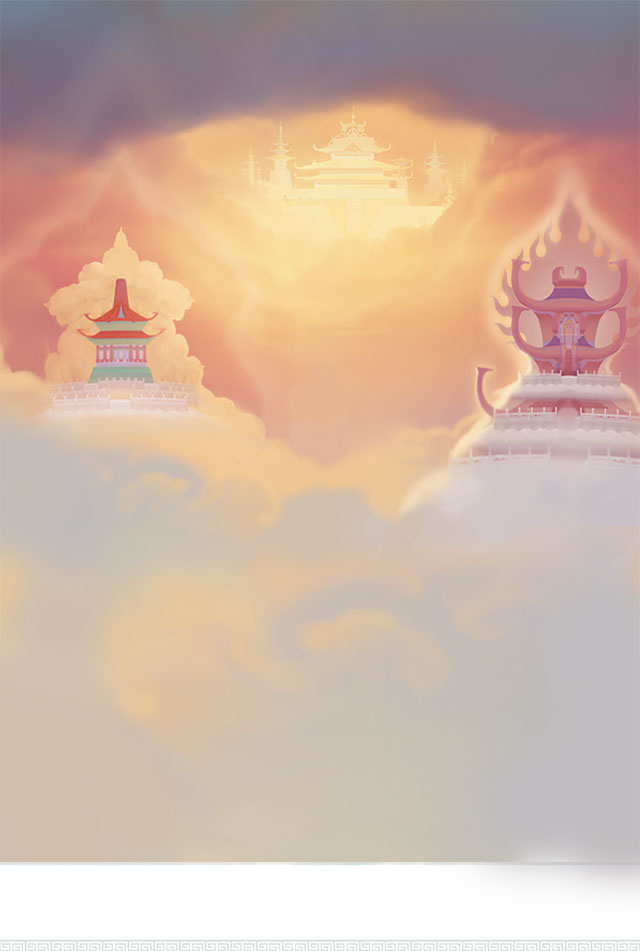
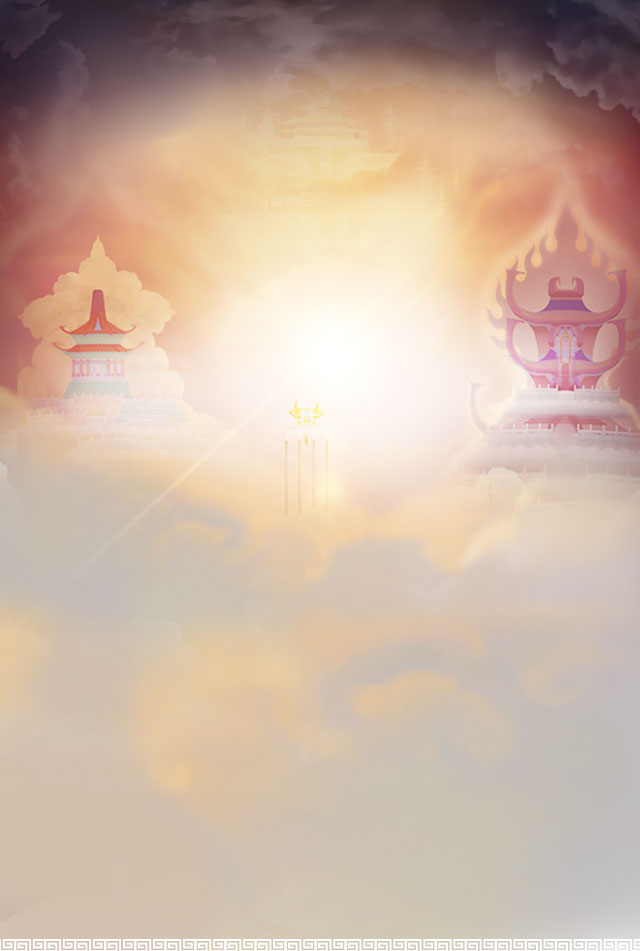
闹闹天宫

diff --git a/naonao/css/index.css b/naonao/css/index.css
@@ -1,2 +1,2 @@
-/*! normalize.css v5.0.0 | MIT License | github.com/necolas/normalize.css */html{font-family:sans-serif;line-height:1.15;-ms-text-size-adjust:100%;-webkit-text-size-adjust:100%}body{margin:0}article,aside,footer,header,nav,section{display:block}h1{font-size:2em;margin:0.67em 0}figcaption,figure,main{display:block}figure{margin:1em 40px}hr{box-sizing:content-box;height:0;overflow:visible}pre{font-family:monospace, monospace;font-size:1em}a,a:hover{background-color:transparent;-webkit-text-decoration-skip:objects}a:active,a:hover{outline-width:0}abbr[title]{border-bottom:none;text-decoration:underline;text-decoration:underline dotted}b,strong{font-weight:inherit}b,strong{font-weight:bolder}code,kbd,samp{font-family:monospace, monospace;font-size:1em}dfn{font-style:italic}mark{background-color:#ff0;color:#000}small{font-size:80%}sub,sup{font-size:75%;line-height:0;position:relative;vertical-align:baseline}sub{bottom:-0.25em}sup{top:-0.5em}audio,video{display:inline-block}audio:not([controls]){display:none;height:0}img{border-style:none}svg:not(:root){overflow:hidden}button,input,optgroup,select,textarea{font-family:sans-serif;font-size:100%;line-height:1.15;margin:0}button,input{overflow:visible}button,select{text-transform:none}button,html [type="button"],[type="reset"],[type="submit"]{-webkit-appearance:button}button::-moz-focus-inner,[type="button"]::-moz-focus-inner,[type="reset"]::-moz-focus-inner,[type="submit"]::-moz-focus-inner{border-style:none;padding:0}button:-moz-focusring,[type="button"]:-moz-focusring,[type="reset"]:-moz-focusring,[type="submit"]:-moz-focusring{outline:1px dotted ButtonText}fieldset{border:1px solid #c0c0c0;margin:0 2px;padding:0.35em 0.625em 0.75em}legend{box-sizing:border-box;color:inherit;display:table;max-width:100%;padding:0;white-space:normal}progress{display:inline-block;vertical-align:baseline}textarea{overflow:auto}[type="checkbox"],[type="radio"]{box-sizing:border-box;padding:0}[type="number"]::-webkit-inner-spin-button,[type="number"]::-webkit-outer-spin-button{height:auto}[type="search"]{-webkit-appearance:textfield;outline-offset:-2px}[type="search"]::-webkit-search-cancel-button,[type="search"]::-webkit-search-decoration{-webkit-appearance:none}::-webkit-file-upload-button{-webkit-appearance:button;font:inherit}details,menu{display:block}summary{display:list-item}canvas{display:inline-block}template{display:none}[hidden]{display:none}table{border-collapse:collapse}td,th{padding:0}h1,h2,h3,h4,h5,p,ul,ol{margin:0;padding:0;font-weight:normal}li{list-style:none}a,a:hover{text-decoration:none;cursor:pointer}em,i{font-style:normal}.clearfix:before,.clearfix:after{content:"\20";display:block;height:0;overflow:hidden}.clearfix:after{clear:both}.clearfix{zoom:1}div.point{margin-left:-.51556rem;position:absolute;bottom:-.49778rem;left:50%;background:url("../img/mobile/point.png") no-repeat top;background-size:100% 100%;height:3.62667rem;width:1.03111rem}a.download-btn{margin-left:-4.26667rem;position:absolute;bottom:4.26667rem;left:50%;background:url("../img/mobile/img7.png") no-repeat center;background-size:100% 100%;display:block;height:2.70222rem;width:8.53333rem;z-index:10}a.video-play-btn{margin:-2.15111rem 0 0 -2.15111rem;position:absolute;left:50%;top:50%;background:url("../img/mobile/img8.png") no-repeat center;background-size:100% 100%;height:5.04167rem;width:5.04167rem}span.video-con-mask{position:absolute;left:0;top:0;background:rgba(0,0,0,0.6);display:block;height:100%;width:100%}a.audio-btn{position:fixed;right:1.06667rem;top:1.06667rem;background:url("../img/mobile/img6-close.png") no-repeat center;background-size:100% 100%;height:1.63556rem;width:1.63556rem;display:block;z-index:9999}a.audio-btn.active{background:url("../img/mobile/img6.png") no-repeat center;background-size:100% 100%}.banner{position:relative;z-index:1;background:url("../img/mobile/banner-bg.jpg") no-repeat;background-size:100% 100%;height:39.625rem}.banner .banner-con{position:relative;height:39.16667rem;overflow:hidden}.banner .banner-con div.point{bottom:-.35556rem}.banner .banner-con a{display:block;position:absolute}.banner .banner-con a img{display:block;height:100%;width:100%}.banner .banner-con a.logo{left:4.62222rem;top:4.12444rem;height:9.52889rem;width:19.41333rem}.banner .banner-con a.cloud{margin-left:-2.29167rem;bottom:-3.33333rem;left:0;height:20.91667rem;width:31.25rem}.banner .banner-con a.home{left:11.91111rem;top:15.64444rem;height:11.34222rem;width:2.63111rem}.banner .banner-con a.home.two{left:15.64444rem;top:19.37778rem;height:4.40889rem;width:1.03111rem}.banner .banner-con a.home.three{left:18.48889rem;top:20.62222rem;height:2.13333rem;width:.49778rem}.banner .banner-con a.home.four{left:20.62222rem;top:19.2rem;height:1.06667rem;width:.24889rem}.video-wraper{position:relative;z-index:0;background:url("../img/mobile/bg1.jpg") no-repeat top center;background-size:100% 100%;height:28.95833rem;width:100%}.video-wraper .video{position:absolute;left:4.26667rem;top:13.79556rem;height:9.84889rem;width:18.16889rem}.video-wraper .video .swiper-wrapper .swiper-slide{border-radius:.35556rem;overflow:hidden}.video-wraper .video .swiper-wrapper .swiper-slide img{display:block;height:100%;width:100%}.video-wraper .videobtn{top:18.48889rem;height:2.84444rem;width:1.38667rem}.video-wraper .videobtn.swiper-button-prev{background:url("../img/mobile/img2.png") no-repeat center;background-size:100% 100%;left:1.77778rem}.video-wraper .videobtn.swiper-button-next{background:url("../img/mobile/img3.png") no-repeat center;background-size:100% 100%;right:1.77778rem}.hero-intro img{display:block;width:100%}.hero-con{position:relative;background:url("../img/mobile/bg3.jpg") no-repeat top;background-size:100% 100%;height:37.95833rem;width:100%}.hero-con.detail{background:url("../img/mobile/bg-detail-1.jpg") no-repeat top;background-size:100% 100%;height:29.15556rem}.hero-con.detail .hero-btn{padding-top:6.4rem}.hero-con .hero-con-img{margin-left:-11.48444rem;position:absolute;left:50%;top:-8.17778rem;height:16.71111rem;width:22.96889rem}.hero-con .hero-con-img a{height:100%;width:100%}.hero-con .hero-con-img a img{height:100%;width:100%}.hero-con .hero-con-img a.detail-link{position:absolute;left:0;top:0;z-index:2}.hero-con .hero-con-img .fire-star{position:absolute;bottom:-2.84444rem;left:0;height:10.98667rem;width:24.28444rem;z-index:1}.hero-con .hero-con-img .fire-star img{height:100%;width:100%}.hero-con .hero-btn{margin:0 auto;padding-top:14.57778rem;width:18.48889rem}.hero-con .hero-btn a{float:left;position:relative;margin:0 .71111rem 1.99111rem;height:3.2rem;width:3.2rem}.hero-con .hero-btn a.active span{position:absolute;left:.92444rem;top:-.92444rem;background:url("../img/mobile/hero-btn-bg.png") no-repeat top;background-size:100% 100%;display:block;height:5.04889rem;width:1.45778rem}.hero-con .hero-btn a img{display:block;height:100%;width:100%}.wallpaper{position:relative;background:url("../img/mobile/bg4.jpg") no-repeat top center;background-size:100% 100%;height:42.83333rem;width:100%}.wallpaper .wallpapercon{padding-top:7.11111rem;width:100%}.wallpaper .wallpapercon .swiper-slide{box-shadow:0 0 5.33333rem 0 rgba(0,0,0,0.4);height:24.67556rem;width:13.86667rem}.wallpaper .wallpapercon .swiper-slide img{display:block;height:100%;width:100%}.wallpaper .wallbtn{top:31.64444rem;height:2.70222rem;width:1.35111rem}.wallpaper .wallbtn.swiper-button-prev{background:url("../img/mobile/img1.png") no-repeat center;background-size:100% 100%;left:3.91111rem}.wallpaper .wallbtn.swiper-button-next{background:url("../img/mobile/img0.png") no-repeat center;background-size:100% 100%;right:3.91111rem}.wallpaper .wallpaper-download{margin:4.26667rem auto 0;width:14.50667rem}.wallpaper .wallpaper-download a{float:left;margin:0 .28444rem;display:block;background:url("../img/mobile/img5.png") no-repeat center;background-size:100% 100%;height:1.24444rem;width:4.26667rem;color:#fce8c4;font-size:.64rem;line-height:1.24444rem;text-align:center}.qq-group{position:relative;background:#000000;padding-bottom:1.42222rem;text-align:center}.qq-group .qq-pop{margin-left:-4.08889rem;position:absolute;bottom:3.55556rem;left:50%;background:#fff;border-radius:.41667rem;display:none;width:8.17778rem}.qq-group .qq-pop img{margin:.85333rem auto;display:block;height:5.51111rem;width:5.54667rem}.qq-group .qq-pop p{margin:-.66667rem 0 0 -1.25rem;width:10.83333rem;color:#7f6a43;font-size:.49778rem;line-height:1.08333rem;text-align:center;transform:scale(0.7)}.qq-group .qq-pop p span{display:block}.qq-group.detail{padding-top:1.70667rem}.qq-group a{border:1px solid #fce8c4;border-radius:.85333rem;display:inline-block;height:1.70667rem;width:5.33333rem;color:#fce8c4;font-size:.64rem;line-height:1.70667rem;text-align:center}.banner-detail{position:relative;height:35.09333rem;width:100%;overflow:hidden}.banner-detail a.download-btn{bottom:inherit;top:1.66667rem}.banner-detail img{display:block;height:100%;width:100%}.banner-detail .stone{position:absolute;bottom:7.11111rem;right:0;height:12.08889rem;width:25.42222rem}.banner-detail .stone img{display:block;height:100%;width:100%}.intro-detail img{display:block;width:100%}.skill{padding:8.17778rem 0 5.68889rem 0;position:relative;z-index:1;background:url("../img/mobile/bg-detail-0.jpg") no-repeat top;background-size:100% auto;width:100%}.skill .video-play{margin:0 auto;position:relative;height:9.84889rem;width:18.16889rem}.skill .video-play img{display:block;height:100%;width:100%}.skill .skill-btn{margin:4.26667rem auto 0;width:19.76889rem}.skill .skill-btn a{float:left;display:block;margin:0 .88889rem;height:4.62222rem;width:3.16444rem}.skill .skill-btn a.active{background:url("../img/mobile/img11.png") no-repeat bottom;background-size:1.67111rem auto}.skill .skill-btn a img{display:block;width:100%}.skill .skill-con li{display:none}.skill .skill-con li:first-child{display:block}.skill .skill-con li.active{display:block}.skill .skill-con li h4{margin-top:.35556rem;color:#af9769;font-size:.92444rem;line-height:3.2rem;text-align:center}.skill .skill-con li p{margin:.71111rem auto 0;width:17.77778rem;display:block;color:#7a6136;font-size:.92444rem;line-height:1.99111rem;text-align:center}.skill .skill-con li p span{margin:0 auto;background:url("../img/mobile/intro-bg.png") no-repeat top;background-size:100% 100%;display:block;height:.46222rem;width:17.67111rem}.skill .skill-con li p em{margin:.83333rem 0;display:block}.back-index{background:#000000;font-size:.85333rem;line-height:2.84444rem;text-align:center}.back-index a{color:#ffffff}footer{padding:.83333rem 0;background:#000000;width:100%;color:#626262;font-size:1rem;text-align:center;overflow:hidden;z-index:999}footer span{margin-bottom:.83333rem;display:block;height:1.75rem}footer span img{height:100%}footer p{margin-left:-6.25rem;display:block;width:150%;-webkit-transform:scale(0.6);-moz-transform:scale(0.6);-ms-transform:scale(0.6);-o-transform:scale(0.6);transform:scale(0.6)}footer em{margin:.20833rem 0 .20833rem -6.66667rem;display:block;width:150%;-webkit-transform:scale(0.5);-moz-transform:scale(0.5);-ms-transform:scale(0.5);-o-transform:scale(0.5);transform:scale(0.5)}.undown-bg{position:fixed;left:0;top:0;background:rgba(0,0,0,0.85);display:none;height:100%;width:100%;z-index:9999}.undown-text{position:absolute;right:0;top:0;background:url("../img/mobile/msg_weixin.png") no-repeat;background-size:100% auto;height:100%;width:100%}.popmask{position:fixed;left:0;top:0;display:none;height:100%;width:100%;background:rgba(0,0,0,0.6);z-index:9998}.video-wrap{position:fixed;left:0;top:30%;display:none;width:100%;z-index:9999}.video-wrap video{width:100%}.video-wrap a{position:absolute;right:.20833rem;top:-1.45833rem;background:rgba(255,255,255,0.8);display:block;height:1.33333rem;width:1.33333rem}.video-wrap a img{display:block;height:100%;width:100%}
+/*! normalize.css v5.0.0 | MIT License | github.com/necolas/normalize.css */html{font-family:sans-serif;line-height:1.15;-ms-text-size-adjust:100%;-webkit-text-size-adjust:100%}body{margin:0}article,aside,footer,header,nav,section{display:block}h1{font-size:2em;margin:0.67em 0}figcaption,figure,main{display:block}figure{margin:1em 40px}hr{box-sizing:content-box;height:0;overflow:visible}pre{font-family:monospace, monospace;font-size:1em}a,a:hover{background-color:transparent;-webkit-text-decoration-skip:objects}a:active,a:hover{outline-width:0}abbr[title]{border-bottom:none;text-decoration:underline;text-decoration:underline dotted}b,strong{font-weight:inherit}b,strong{font-weight:bolder}code,kbd,samp{font-family:monospace, monospace;font-size:1em}dfn{font-style:italic}mark{background-color:#ff0;color:#000}small{font-size:80%}sub,sup{font-size:75%;line-height:0;position:relative;vertical-align:baseline}sub{bottom:-0.25em}sup{top:-0.5em}audio,video{display:inline-block}audio:not([controls]){display:none;height:0}img{border-style:none}svg:not(:root){overflow:hidden}button,input,optgroup,select,textarea{font-family:sans-serif;font-size:100%;line-height:1.15;margin:0}button,input{overflow:visible}button,select{text-transform:none}button,html [type="button"],[type="reset"],[type="submit"]{-webkit-appearance:button}button::-moz-focus-inner,[type="button"]::-moz-focus-inner,[type="reset"]::-moz-focus-inner,[type="submit"]::-moz-focus-inner{border-style:none;padding:0}button:-moz-focusring,[type="button"]:-moz-focusring,[type="reset"]:-moz-focusring,[type="submit"]:-moz-focusring{outline:1px dotted ButtonText}fieldset{border:1px solid #c0c0c0;margin:0 2px;padding:0.35em 0.625em 0.75em}legend{box-sizing:border-box;color:inherit;display:table;max-width:100%;padding:0;white-space:normal}progress{display:inline-block;vertical-align:baseline}textarea{overflow:auto}[type="checkbox"],[type="radio"]{box-sizing:border-box;padding:0}[type="number"]::-webkit-inner-spin-button,[type="number"]::-webkit-outer-spin-button{height:auto}[type="search"]{-webkit-appearance:textfield;outline-offset:-2px}[type="search"]::-webkit-search-cancel-button,[type="search"]::-webkit-search-decoration{-webkit-appearance:none}::-webkit-file-upload-button{-webkit-appearance:button;font:inherit}details,menu{display:block}summary{display:list-item}canvas{display:inline-block}template{display:none}[hidden]{display:none}table{border-collapse:collapse}td,th{padding:0}h1,h2,h3,h4,h5,p,ul,ol{margin:0;padding:0;font-weight:normal}li{list-style:none}a,a:hover{text-decoration:none;cursor:pointer}em,i{font-style:normal}.clearfix:before,.clearfix:after{content:"\20";display:block;height:0;overflow:hidden}.clearfix:after{clear:both}.clearfix{zoom:1}div.point{margin-left:-.51556rem;position:absolute;bottom:-.49778rem;left:50%;background:url("../img/mobile/point.png") no-repeat top;background-size:100% 100%;height:3.62667rem;width:1.03111rem}a.download-btn{margin-left:-4.26667rem;position:absolute;bottom:4.26667rem;left:50%;background:url("../img/mobile/img7.png") no-repeat center;background-size:100% 100%;display:block;height:2.70222rem;width:8.53333rem;z-index:10}a.video-play-btn{margin:-2.15111rem 0 0 -2.15111rem;position:absolute;left:50%;top:50%;background:url("../img/mobile/img8.png") no-repeat center;background-size:100% 100%;height:5.04167rem;width:5.04167rem}span.video-con-mask{position:absolute;left:0;top:0;background:rgba(0,0,0,0.6);display:block;height:100%;width:100%}a.audio-btn{position:fixed;right:1.06667rem;top:1.06667rem;background:url("../img/mobile/img6-close.png") no-repeat center;background-size:100% 100%;height:1.63556rem;width:1.63556rem;display:block;z-index:9999}a.audio-btn.active{background:url("../img/mobile/img6.png") no-repeat center;background-size:100% 100%}.banner{position:relative;z-index:1;background:url("../img/mobile/banner-bg.jpg") no-repeat;background-size:100% 100%;height:39.625rem}.banner .banner-con{position:relative;height:39.16667rem;overflow:hidden}.banner .banner-con div.point{bottom:-.35556rem}.banner .banner-con a{display:block;position:absolute}.banner .banner-con a img{display:block;height:100%;width:100%}.banner .banner-con a.slogan{left:1.25rem;top:12.91667rem;height:5.375rem;width:24.08333rem}.banner .banner-con a.logo{left:6rem;top:7.25rem;height:6.29167rem;width:14.58333rem}.banner .banner-con a.cloud{bottom:0;left:0;height:20.83333rem;width:107.66667rem;-webkit-animation:cloud 30s linear 0s infinite;-moz-animation:cloud 30s linear 0s infinite;animation:cloud 30s linear 0s infinite}.banner .banner-con a.cloud img{float:left;width:53.83333rem}.banner .banner-con a.home{left:11.91111rem;top:15.64444rem;height:11.34222rem;width:2.63111rem;opacity:0.5}.banner .banner-con a.home.two{left:15.64444rem;top:19.37778rem;height:4.40889rem;width:1.03111rem}.banner .banner-con a.home.three{left:18.48889rem;top:20.62222rem;height:2.13333rem;width:.49778rem}.banner .banner-con a.home.four{left:20.62222rem;top:19.2rem;height:1.06667rem;width:.24889rem}@-webkit-keyframes cloud{0%{left:0}100%{left:-53.83333rem}}@-moz-keyframes cloud{0%{left:0}100%{left:-53.83333rem}}@keyframes cloud{0%{left:0}100%{left:-53.83333rem}}.video-wraper{position:relative;z-index:0;background:url("../img/mobile/bg1.jpg") no-repeat top center;background-size:100% 100%;height:28.95833rem;width:100%}.video-wraper .video{position:absolute;left:4.26667rem;top:13.79556rem;height:9.84889rem;width:18.16889rem}.video-wraper .video .swiper-wrapper .swiper-slide{border-radius:.35556rem;overflow:hidden}.video-wraper .video .swiper-wrapper .swiper-slide img{display:block;height:100%;width:100%}.video-wraper .videobtn{top:18.48889rem;height:2.84444rem;width:1.38667rem}.video-wraper .videobtn.swiper-button-prev{background:url("../img/mobile/img2.png") no-repeat center;background-size:100% 100%;left:1.77778rem}.video-wraper .videobtn.swiper-button-next{background:url("../img/mobile/img3.png") no-repeat center;background-size:100% 100%;right:1.77778rem}.hero-intro img{display:block;width:100%}.hero-con{position:relative;background:url("../img/mobile/bg3.jpg") no-repeat top;background-size:100% 100%;height:37.95833rem;width:100%}.hero-con.detail{background:url("../img/mobile/bg-detail-1.jpg") no-repeat top;background-size:100% 100%;height:29.15556rem}.hero-con.detail .hero-btn{padding-top:6.4rem}.hero-con .hero-con-img{margin-left:-11.48444rem;position:absolute;left:50%;top:-8.17778rem;height:16.71111rem;width:22.96889rem}.hero-con .hero-con-img a{height:100%;width:100%}.hero-con .hero-con-img a img{height:100%;width:100%}.hero-con .hero-con-img a.detail-link{position:absolute;left:0;top:0;z-index:2}.hero-con .hero-con-img .fire-star{position:absolute;bottom:-2.84444rem;left:0;height:10.98667rem;width:24.28444rem;z-index:1}.hero-con .hero-con-img .fire-star img{height:100%;width:100%}.hero-con .hero-btn{margin:0 auto;padding-top:14.57778rem;width:18.48889rem}.hero-con .hero-btn a{float:left;position:relative;margin:0 .71111rem 1.99111rem;height:3.2rem;width:3.2rem}.hero-con .hero-btn a.active span{position:absolute;left:.92444rem;top:-.92444rem;background:url("../img/mobile/hero-btn-bg.png") no-repeat top;background-size:100% 100%;display:block;height:5.04889rem;width:1.45778rem}.hero-con .hero-btn a img{display:block;height:100%;width:100%}.wallpaper{position:relative;background:url("../img/mobile/bg4.jpg") no-repeat top center;background-size:100% 100%;height:42.83333rem;width:100%}.wallpaper .wallpapercon{padding-top:7.11111rem;width:100%}.wallpaper .wallpapercon .swiper-slide{box-shadow:0 0 5.33333rem 0 rgba(0,0,0,0.4);height:24.67556rem;width:13.86667rem}.wallpaper .wallpapercon .swiper-slide img{display:block;height:100%;width:100%}.wallpaper .wallbtn{top:31.64444rem;height:2.70222rem;width:1.35111rem}.wallpaper .wallbtn.swiper-button-prev{background:url("../img/mobile/img1.png") no-repeat center;background-size:100% 100%;left:3.91111rem}.wallpaper .wallbtn.swiper-button-next{background:url("../img/mobile/img0.png") no-repeat center;background-size:100% 100%;right:3.91111rem}.wallpaper .wallpaper-download{margin:4.26667rem auto 0;width:14.50667rem}.wallpaper .wallpaper-download a{float:left;margin:0 .28444rem;display:block;background:url("../img/mobile/img5.png") no-repeat center;background-size:100% 100%;height:1.24444rem;width:4.26667rem;color:#fce8c4;font-size:.64rem;line-height:1.24444rem;text-align:center}.qq-group{position:relative;background:#000000;padding-bottom:1.42222rem;text-align:center}.qq-group .qq-pop{margin-left:-4.08889rem;position:absolute;bottom:3.55556rem;left:50%;background:#fff;border-radius:.41667rem;display:none;width:8.17778rem}.qq-group .qq-pop img{margin:.85333rem auto;display:block;height:5.51111rem;width:5.54667rem}.qq-group .qq-pop p{margin:-.66667rem 0 0 -1.25rem;width:10.83333rem;color:#7f6a43;font-size:.49778rem;line-height:1.08333rem;text-align:center;-webkit-transform:scale(0.7);-moz-transform:scale(0.7);-ms-transform:scale(0.7);-o-transform:scale(0.7);transform:scale(0.7)}.qq-group .qq-pop p span{display:block}.qq-group.detail{padding-top:1.70667rem}.qq-group a{border:1px solid #fce8c4;border-radius:.85333rem;display:inline-block;height:1.70667rem;width:5.33333rem;color:#fce8c4;font-size:.64rem;line-height:1.70667rem;text-align:center}.banner-detail{position:relative;height:35.09333rem;width:100%;overflow:hidden}.banner-detail a.download-btn{bottom:inherit;top:1.66667rem}.banner-detail img{display:block;height:100%;width:100%}.banner-detail .stone{position:absolute;bottom:7.11111rem;right:0;height:12.08889rem;width:25.42222rem}.banner-detail .stone img{display:block;height:100%;width:100%}.intro-detail img{display:block;width:100%}.skill{padding:8.17778rem 0 5.68889rem 0;position:relative;z-index:1;background:url("../img/mobile/bg-detail-0.jpg") no-repeat top;background-size:100% auto;width:100%}.skill .video-play{margin:0 auto;position:relative;height:9.84889rem;width:18.16889rem}.skill .video-play img{display:block;height:100%;width:100%}.skill .skill-btn{margin:4.26667rem auto 0;width:19.76889rem}.skill .skill-btn a{float:left;display:block;margin:0 .88889rem;height:4.62222rem;width:3.16444rem}.skill .skill-btn a.active{background:url("../img/mobile/img11.png") no-repeat bottom;background-size:1.67111rem auto}.skill .skill-btn a img{display:block;width:100%}.skill .skill-con li{display:none}.skill .skill-con li:first-child{display:block}.skill .skill-con li.active{display:block}.skill .skill-con li h4{margin-top:.35556rem;color:#af9769;font-size:.92444rem;line-height:3.2rem;text-align:center}.skill .skill-con li p{margin:.71111rem auto 0;width:17.77778rem;display:block;color:#7a6136;font-size:.92444rem;line-height:1.99111rem;text-align:center}.skill .skill-con li p span{margin:0 auto;background:url("../img/mobile/intro-bg.png") no-repeat top;background-size:100% 100%;display:block;height:.46222rem;width:17.67111rem}.skill .skill-con li p em{margin:.83333rem 0;display:block}.back-index{background:#000000;font-size:.85333rem;line-height:2.84444rem;text-align:center}.back-index a{color:#ffffff}footer{padding:.83333rem 0;background:#000000;width:100%;color:#626262;font-size:1rem;text-align:center;overflow:hidden;z-index:999}footer span{margin-bottom:.83333rem;display:block;height:1.75rem}footer span img{height:100%}footer p{margin-left:-6.25rem;display:block;width:150%;-webkit-transform:scale(0.6);-moz-transform:scale(0.6);-ms-transform:scale(0.6);-o-transform:scale(0.6);transform:scale(0.6)}footer em{margin:.20833rem 0 .20833rem -6.66667rem;display:block;width:150%;-webkit-transform:scale(0.5);-moz-transform:scale(0.5);-ms-transform:scale(0.5);-o-transform:scale(0.5);transform:scale(0.5)}.undown-bg{position:fixed;left:0;top:0;background:rgba(0,0,0,0.85);display:none;height:100%;width:100%;z-index:9999}.undown-text{position:absolute;right:0;top:0;background:url("../img/mobile/msg_weixin.png") no-repeat;background-size:100% auto;height:100%;width:100%}.popmask{position:fixed;left:0;top:0;display:none;height:100%;width:100%;background:rgba(0,0,0,0.6);z-index:9998}.video-wrap{position:fixed;left:0;top:30%;display:none;width:100%;z-index:9999}.video-wrap video{width:100%}.video-wrap a{position:absolute;right:.20833rem;top:-1.45833rem;background:rgba(255,255,255,0.8);display:block;height:1.33333rem;width:1.33333rem}.video-wrap a img{display:block;height:100%;width:100%}
 /*# sourceMappingURL=index.css.map */

diff --git a/naonao/index-mobile.html b/naonao/index-mobile.html
@@ -3,7 +3,8 @@
 <head>
     <meta charset="UTF-8">
     <meta name="keywords" content="闹闹天宫,闹闹天宫手游,闹闹天宫下载,闹闹天宫礼包,闹闹天宫官网,大闹天宫,大闹天宫手游,moba,国风,国风moba,国风手游,孙悟空,孙悟空手游,西游手游">
-    <meta name="description" content="蓝港互动2017首款自主研发横版国风空战MOBA手游《闹闹天宫》，黑盒测试现已开启！以经典神话为原型打造跨时代巨作，动画级的精美人设，横版空战的激烈角逐，经典神话人物热血参战，针对战局调整天赋策略，快节奏的对抗团战瞬息万变，你会成为天宫之战的盖世英雄！">
+    <meta name="description"
+          content="蓝港互动2017首款自主研发横版国风空战MOBA手游《闹闹天宫》，黑盒测试现已开启！以经典神话为原型打造跨时代巨作，动画级的精美人设，横版空战的激烈角逐，经典神话人物热血参战，针对战局调整天赋策略，快节奏的对抗团战瞬息万变，你会成为天宫之战的盖世英雄！">
     <meta name="author" content="name, email@gmail.com">
     <!-- 优先使用 IE 最新版本和 Chrome -->
     <meta http-equiv="X-UA-Compatible" content="IE=edge,chrome=1"/>
@@ -59,13 +60,14 @@
 <!--cutline-->
 <div class="banner">
     <div class="banner-con">
-        <a class="logo"><img src="./img/mobile/banner-logo.png"></a>
-        <a class="cloud"><img src="./img/mobile/banner-cloud.png"></a>
         <a class="home one"><img src="./img/mobile/banner-home.png"></a>
         <a class="home two"><img src="./img/mobile/banner-home.png"></a>
         <a class="home three"><img src="./img/mobile/banner-home.png"></a>
         <a class="home four"><img src="./img/mobile/banner-home.png"></a>
         <a class="download-btn" id="downloadBtn"></a>
+        <a class="logo"><img src="./img/mobile/banner-logo.png"></a>
+        <a class="slogan" id="slogan" data-src="http://gdl1602.8864.com/nntg/market/nn_swk.mp4"><img src="./img/mobile/slogan.png"></a>
+        <a class="cloud"><img src="./img/mobile/banner-cloud.png"><img src="./img/mobile/banner-cloud.png"></a>
     </div>
     <div class="point"></div>
 </div>

diff --git a/naonao/scss/index.scss b/naonao/scss/index.scss
@@ -87,24 +87,35 @@ a.audio-btn {
                 width: 100%;
             }
         }
+        a.slogan {
+            left: rem(30);
+            top: rem(310);
+            height: rem(129);
+            width: rem(578);
+        }
         a.logo {
-            left: rem(130*$rule);
-            top: rem(116*$rule);
-            height: rem(268*$rule);
-            width: rem(546*$rule);
+            left: rem(144);
+            top: rem(174);
+            height: rem(151);
+            width: rem(350);
         }
         a.cloud {
-            margin-left: rem(-(750-640)/2);
-            bottom: rem(-80);
+            bottom: 0;
             left: 0;
-            height: rem(502);
-            width: rem(750);
+            height: rem(500);
+            width: rem(1292*2);
+            @include animation(cloud 30s linear 0s infinite);
+            img {
+                float: left;
+                width: rem(1292);
+            }
         }
         a.home {
             left: rem(335*$rule);
             top: rem(440*$rule);
             height: rem(319*$rule);
             width: rem(74*$rule);
+            opacity: 0.5;
             &.two {
                 left: rem(440*$rule);
                 top: rem(545*$rule);
@@ -124,6 +135,15 @@ a.audio-btn {
                 width: rem(7*$rule);
             }
         }
+    }
+}
+
+@include keyframes(cloud) {
+    0% {
+        left: 0;
+    }
+    100% {
+        left: rem(-1292);
     }
 }
 
@@ -334,7 +354,7 @@ a.audio-btn {
             font-size: rem(14*$rule);
             line-height: rem(26);
             text-align: center;
-            transform: scale(0.7);
+            @include transform(scale(0.7));
             span {
                 display: block;
             }

diff --git a/naonao/js/index.js b/naonao/js/index.js
@@ -21,12 +21,11 @@ $(function () {
         });
 
         $('.logo').css({
-            'left': event.gamma * 0.6 + rem(100)
+            'left': event.gamma * 0.6 + rem(144)
         });
 
-        $('.cloud').css({
-            'left': event.gamma * 0.5,
-            'bottom': event.beta * 0.2 + rem(-50)
+        $('.slogan').css({
+            'left': event.gamma * 0.3 + rem(30)
         });
 
         $('.home.one').css({
@@ -49,6 +48,8 @@ $(function () {
 
     }, true);
 
+
+    videoPlay('#slogan');
 
     var imgUrl = 'http://img.linekong.com';
 
